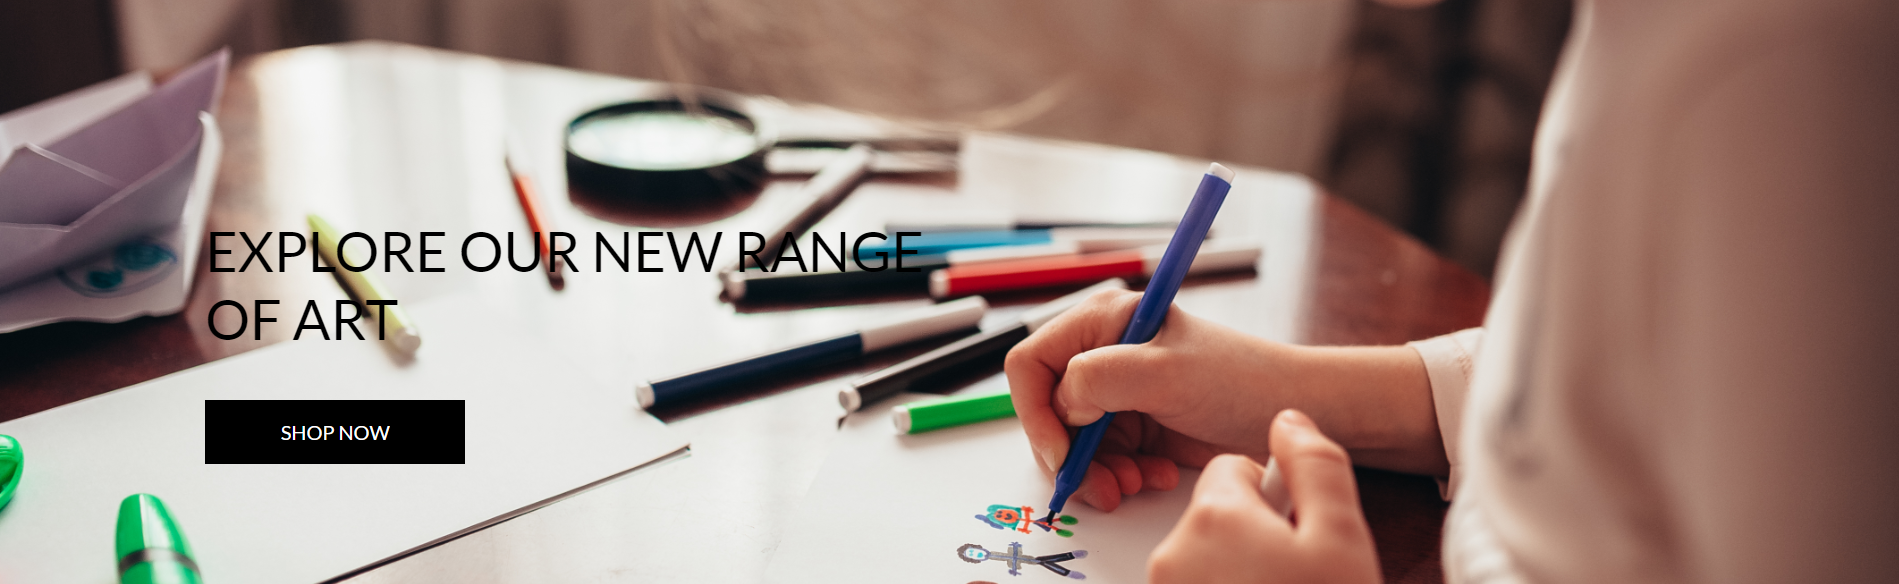
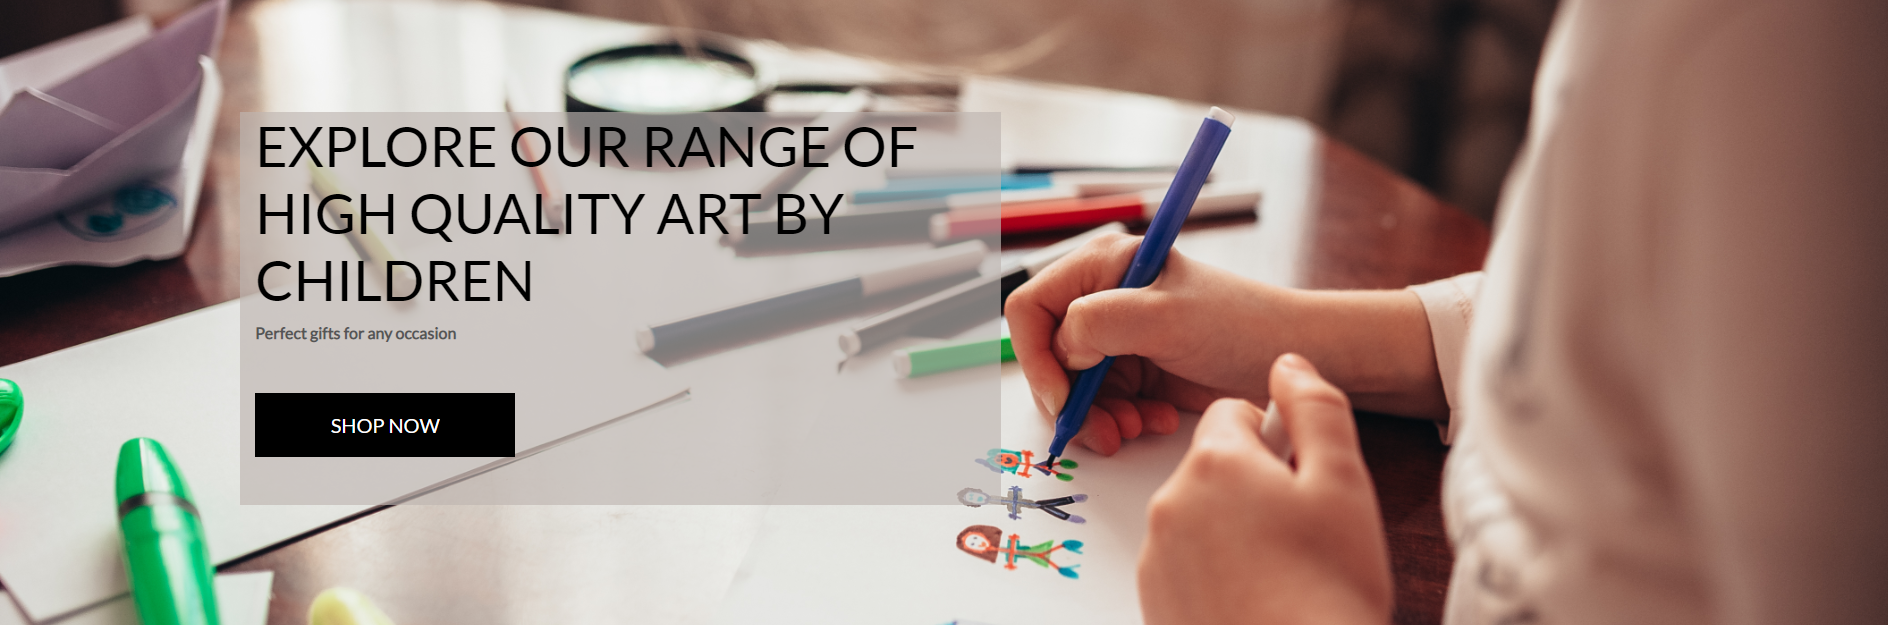
complete the manual testing section of readme

diff --git a/README.md b/README.md
@@ -103,11 +103,13 @@ After creating my user stories, I assigned each a tag with varying levels of imp
 
 Once all user stories had been finalised, I created Github Project in a Kanban format. Using these project boards allowed for greater ease in organising and prioritising my work. My project board was comprised of columns labelled; To do, In progress, Done and Future content. All user stories, known as issues in the project, began in the ‘To do’ column and progressed them throughout the project.
 
+<img src="assets/readme-imgs/user-stories/user-stories.png">
+
 # Databases
 
 For the live site, I connected Heroku's Postgres Database and while working in my local environment I continued to use the Sequel Light. The Entity-Relationship Diagram below shows how the database models connect in order to produce the finished sites functionality.
 
-<img src="assets/readme_images/databases.png">
+<img src="assets/readme-imgs/databases/database-schema.png">
 
 ## Category
 
@@ -209,11 +211,15 @@ Users also have the opportunity to sign up the Elijah James Designs' newsletter 
 
 <img src="assets/readme-imgs/features/shopping-bag.png" width="20%">
 
-### Bootstrap Toast
+### Bootstrap Success Toast
 
 <img src="assets/readme-imgs/features/toast-success.png" width="50%">
 
+### Bootstrap Alert Toast
+
 <img src="assets/readme-imgs/features/toast-alert.png" width="50%">
+
+### Bootstrap Add to bag Toast
 
 <img src="assets/readme-imgs/features/toast-addtobag.png" width="50%">
 
@@ -309,6 +315,10 @@ Visable on the bottom of the Product Details Page
 ### Edit Products
 
 <img src="assets/readme-imgs/features/edit-product.png" width="50%">
+
+### Admin Panel
+
+<img src="assets/readme-imgs/testing/admin-panel.png" width="50%">
 
 
 ## Features to be Implemented
@@ -469,6 +479,161 @@ I also used Google developer tools to check responsiveness across multiple other
 
 - On the products details page there is a section for all users to leave a review on a product. The small form contains the review body, name of the reviewer and date and time
 
+# General Manual Testing
+
+#### Registering
+
+To test the sign up function I tried to sign up without completing the required field. All gave the below message. I also attempted to sign up without meeting the password requirements, this also failed
+
+<img src="assets/readme-imgs/testing/signup-incomplete.png" width="50%">
+
+Once all required fields are completed sign up will be complete and you will have registered for an account. An email will be sent to the email submitted in the form
+
+<img src="assets/readme-imgs/testing/verification-email.png" width="50%">
+
+After following the link you will be prompted to confirm your email on the site
+
+<img src="assets/readme-imgs/testing/confirm-email.png" width="50%">
+
+Once these stages have been completed the user will receive a success toast in the top right of the screen
+
+<img src="assets/readme-imgs/testing/confirmation-toast.png" width="50%">
+
+#### Log in
+
+For log in testing, I attempted to sign in without completing the fields. I also tried logging in with an incorrect username and incorrect password
+
+<img src="assets/readme-imgs/testing/signin-incomplete.png" width="50%">
+
+Once signed in successfully the user will receive a success toast in the top right of the screen
+
+<img src="assets/readme-imgs/testing/signin-success.png" width="50%">
+
+#### Log out
+
+<img src="assets/readme-imgs/testing/signout.png" width="50%">
+
+As with signing in, once the user has successfully signed out the will receive a confirmation message
+
+<img src="assets/readme-imgs/testing/signout-success.png" width="50%">
+
+### Product Search
+
+To test the product search function I decided to choose a character I new was in the collection and type it into the search bar. All results were successfully pulled through with the correct product count.
+
+<img src="assets/readme-imgs/testing/search-products.png" width="50%">
+
+### Product Navigation/Filtering
+
+Within the product navigation bar is all the categories the items on the site have been filtered into. By selecting one only those products will be visible, again with the correct product count
+
+<img src="assets/readme-imgs/testing/product-filter.png" width="50%">
+
+### Product Sorting
+
+To test the booking form I first sorted items by price low to high, the high to low
+
+<img src="assets/readme-imgs/testing/sorting-low-to-high.png" width="50%">
+
+<img src="assets/readme-imgs/testing/sorting-high-to-low.png" width="50%">
+
+### Add to bag
+
+Testing the add to bag function, once the product is selected the add to bag toast appears top right with the item and details. The bag figure also increases by the product amount
+
+<img src="assets/readme-imgs/testing/add-to-bag.png" width="50%">
+
+### Update Shopping Bag
+
+Testing the shopping bag I increased the quantity of an item and the price increased accordingly. Removing an item a confirmation toast is provided to the customer
+
+<img src="assets/readme-imgs/testing/updating-shopping-bag.png" width="50%">
+
+<img src="assets/readme-imgs/testing/remove-items.png" width="50%">
+
+### Checkout
+
+To test the form I tried to complete the form but leaving out a number of sections to which I received an error message
+
+<img src="assets/readme-imgs/testing/checkout-incomplete.png" width="50%">
+
+In order to test the payment process I used Stripe's test numbers
+
+<img src="assets/readme-imgs/testing/payment-test.png" width="50%">
+
+I tried to complete the form using wrong numbers and incomplete and got the folling message
+
+<img src="assets/readme-imgs/testing/payment-error.png" width="50%">
+
+Once completed successfully users will receive a success toast and be redirected to an order confirmation screen. Here the user will see their order details and delivery info.
+
+<img src="assets/readme-imgs/testing/order-success.png" width="50%">
+
+<img src="assets/readme-imgs/testing/payment-success.png" width="50%">
+
+### Admin Login
+
+To test the admin security I tried to access the /admin section of the site while logged on as another user
+
+<img src="assets/readme-imgs/testing/admin-unauth.png" width="50%">
+
+### Add Product
+
+During production the add product function, in the admin section, was tested and used to add all of the latest arrivals as they weren't included in the product fixture list.
+
+<img src="assets/readme-imgs/testing/admin-add.png" width="50%">
+
+To test the add product function through the live site I created a test product and it was added successfully
+
+<img src="assets/readme-imgs/testing/add-product.png" width="50%">
+
+<img src="assets/readme-imgs/testing/add-product-success.png" width="50%">
+
+### Edit Product
+
+Again during production the edit funtion in the admin section was used to finalise products and their details such as price and descriptions.
+
+<img src="assets/readme-imgs/testing/admin-edit-delete.png" width="50%">
+
+The test the functionality on the live site I used the test product created earlier and attempted to change the price
+
+<img src="assets/readme-imgs/testing/edit-product.png" width="50%">
+
+<img src="assets/readme-imgs/testing/edit-product-success.png" width="50%">
+
+### Edit Product
+
+Then finally to test the delete functionality I deleted the test product. Once I received the delete success message I completed a product search to ensure it had been deleted
+
+<img src="assets/readme-imgs/testing/delete-success.png" width="50%">
+
+<img src="assets/readme-imgs/testing/search-product-test.png" width="50%">
+
+### Review Product
+
+To test the product review I tried to submit a form without completing all sections of the form
+
+<img src="assets/readme-imgs/testing/review-incomplete.png" width="50%">
+
+### Contact Form
+
+To test the contact form I completed the form and checked the sites email to see if it had been received. A success toast was also active on the screen
+
+<img src="assets/readme-imgs/testing/contact-form-success.png" width="50%">
+
+<img src="assets/readme-imgs/testing/contact-form-email.png" width="50%">
+
+### Newsletter Subscription
+
+To test the subscritption sign up I completed the form and accessed the mailchimp website to see if the user had been added to the mail list
+
+<img src="assets/readme-imgs/testing/newsletter-form.png" width="50%">
+
+<img src="assets/readme-imgs/testing/newsletter-success.png" width="50%">
+
+<img src="assets/readme-imgs/testing/mailchimp-contacts.png" width="50%">
+
+
 # Bugs Found
 
 I encountered the following issues whilst building this project:
@@ -478,6 +643,11 @@ I encountered the following issues whilst building this project:
 - The images from the about us section were not showing on the live site. To fix this I used the image url from AWS.
 
 # User Feedback
+
+- More info was needed in the footer. Originally the footer contained only the newsletter sign up and Facebook link. Following the feedback, I added more links for around the site as well as a link to the privacy policy and copyright message.
+-  The welcome message wasn’t very clear on top of the landing image. To rectify this, I added a background colour so the text was more visible.
+- Several spelling errors were located, these have been corrected
+
 
 # Site Design
 
